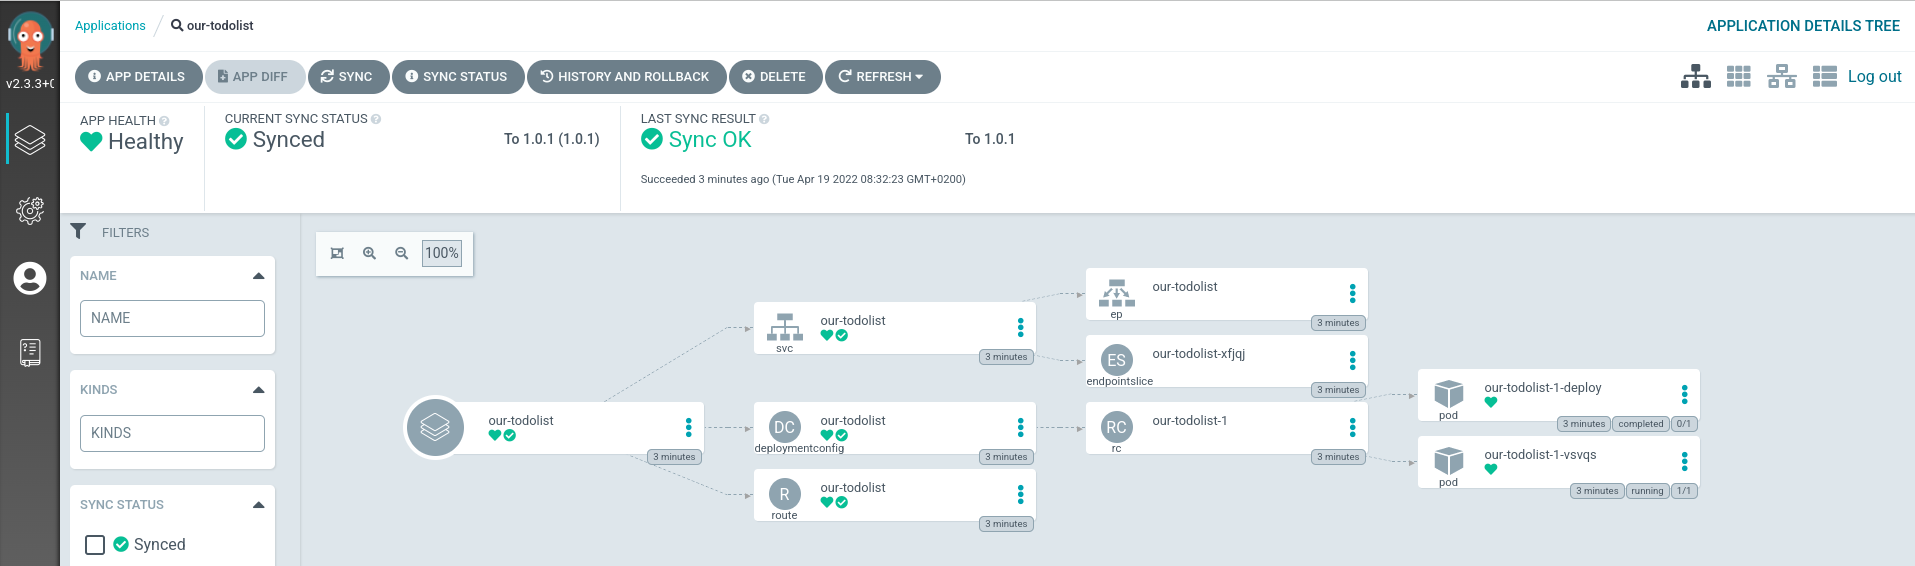
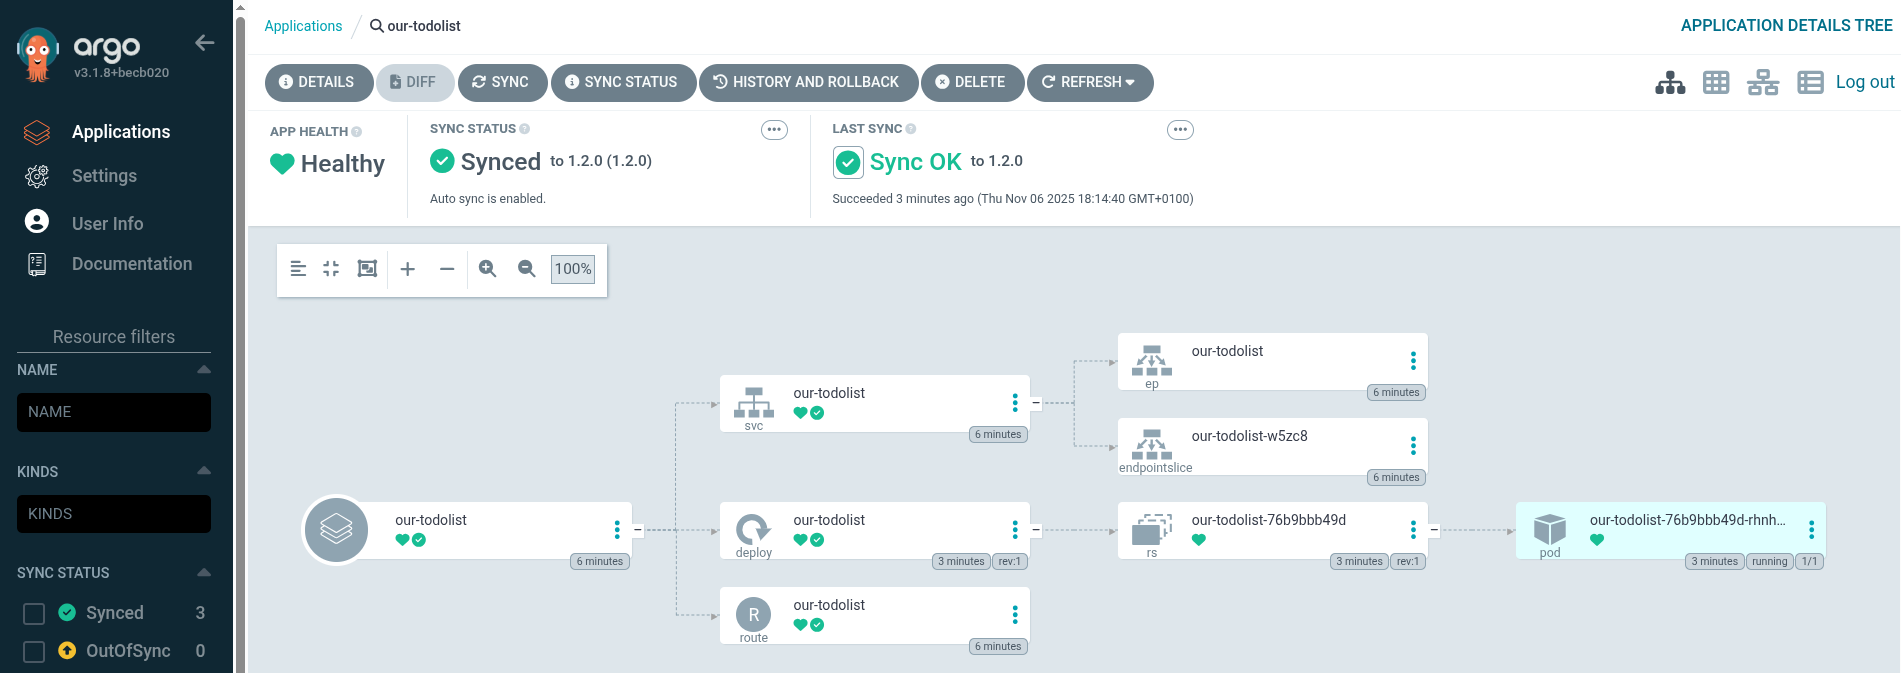
🚑 Remove mentions to DeploymentConfig and update broken link

diff --git a/docs/1-the-manual-menace/2-argocd.md b/docs/1-the-manual-menace/2-argocd.md
@@ -84,7 +84,7 @@ When something is seen as not matching the desired state in Git, an application 
     ```
 
     <p class="tip">
-    ⛷ <b>NOTE</b> ⛷ - It's also worth noting we're allowing ArgoCD to run in a fairly permissive mode for these exercises, it can pull charts from anywhere. If you're interested in securing ArgoCD a bit more, checkout the <span style="color:blue;"><a href="/#/1-the-manual-menace/666-here-be-dragons?id=here-be-dragons">here-be-dragons</a></span> exercise at the end of this lab.
+    ⛷ <b>NOTE</b> ⛷ - It's also worth noting we're allowing ArgoCD to run in a fairly permissive mode for these exercises, it can pull charts from anywhere. If you're interested in securing ArgoCD a bit more, checkout the <span style="color:blue;"><a href="/tech-exercise/#/1-the-manual-menace/666-here-be-dragons?id=here-be-dragons">here-be-dragons</a></span> exercise at the end of this lab.
     </p>
 
 3. If we check in OpenShift we should see the Operator pod coming to life and (eventually) the argocd-server, dex and other pods spin up. To do this, we are going to run a command with a 'watch' flag to continuousy monitor pod creation.
@@ -120,7 +120,7 @@ When something is seen as not matching the desired state in Git, an application 
       * Repository URL: `https://rht-labs.com/todolist/`
       * Select `Helm` from the right drop down menu
       * Chart: `todolist`
-      * Version: `1.1.0`
+      * Version: `1.2.0`
    * On the "DESTINATION" box
       * Cluster URL: `https://kubernetes.default.svc`
       * Namespace: `<TEAM_NAME>-ci-cd`

diff --git a/docs/1-the-manual-menace/1-the-basics.md b/docs/1-the-manual-menace/1-the-basics.md
@@ -71,7 +71,7 @@
 
 ### Helm 101
 
-> Helm is the package manager for Kubernetes. It provides a way to create templates for the Kubernetes YAML that defines our application. The Kubernetes resources such as `DeploymentConfig`, `Route` & `Service` can be processed by supplying `values` to the templates. In Helm land, there are a few ways to do this. A package containing the templates and their default values is called a `chart`.
+> Helm is the package manager for Kubernetes. It provides a way to create templates for the Kubernetes YAML that defines our application. The Kubernetes resources such as `Deployments`, `Route` & `Service` can be processed by supplying `values` to the templates. In Helm land, there are a few ways to do this. A package containing the templates and their default values is called a `chart`.
 
 Let's deploy a simple application using Helm.
 
@@ -139,7 +139,8 @@ Let's deploy a simple application using Helm.
     ├── Chart.yaml
     ├── templates
     │   ├── _helpers.tpl
-    │   ├── deploymentconfig.yaml
+    │   ├── configmap.yaml
+    │   ├── deployment.yaml
     │   ├── route.yaml
     │   └── service.yaml
     └── values.yaml
